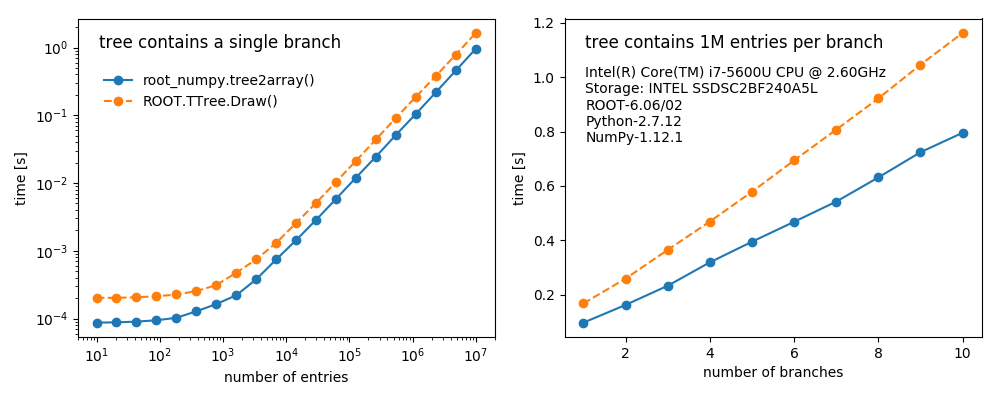
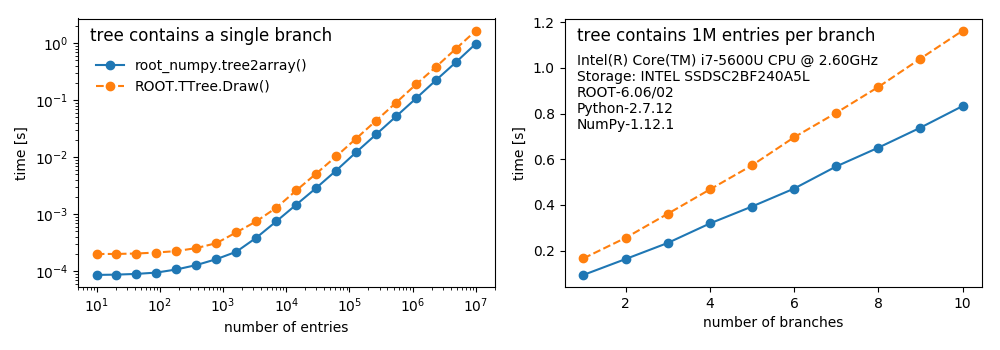
paper updates

diff --git a/benchmarks/bench_tree2array.py b/benchmarks/bench_tree2array.py
@@ -56,16 +56,16 @@ for entries in num_entries:
     print("  {0:10.5f}".format(root_numpy_times[-1]), end="")
     print("  {0:10.5f}".format(root_times[-1]))
 
-fig, (ax1, ax2) = plt.subplots(1, 2, figsize=(10, 4))
+fig, (ax1, ax2) = plt.subplots(1, 2, figsize=(10, 3.5))
 
 ax1.plot(num_entries, root_numpy_times, '-o', label='root_numpy.tree2array()', linewidth=1.5)
 ax1.plot(num_entries, root_times, '--o', label='ROOT.TTree.Draw()', linewidth=1.5)
 ax1.set_xscale("log", nonposx='clip')
 ax1.set_yscale("log", nonposx='clip')
-ax1.legend(loc=(0.05, 0.7), frameon=False, fontsize=10)
+ax1.legend(loc=(0.03, 0.7), frameon=False, fontsize=10)
 ax1.set_ylabel('time [s]')
 ax1.set_xlabel('number of entries')
-ax1.text(0.05, 0.95, 'tree contains a single branch',
+ax1.text(0.03, 0.97, 'tree contains a single branch',
          verticalalignment='top', horizontalalignment='left',
          transform=ax1.transAxes, fontsize=12)
 
@@ -79,12 +79,13 @@ for branches in num_branches:
     tree = make_tree(1000000, branches=branches)
     branchnames = [branch.GetName() for branch in tree.GetListOfBranches()]
     branchname = ':'.join(branchnames)
+    iterations = 5
     root_numpy_times.append(
         min(timeit.Timer('tree2array(tree)',
-                         setup='from root_numpy import tree2array; from __main__ import tree').repeat(3, 3)) / 3)
+                         setup='from root_numpy import tree2array; from __main__ import tree').repeat(3, iterations)) / iterations)
     root_times.append(
         min(timeit.Timer('draw("{0}", "", "goff candle")'.format(branchname),
-                         setup='from __main__ import tree; draw = tree.Draw').repeat(3, 3)) / 3)
+                         setup='from __main__ import tree; draw = tree.Draw').repeat(3, iterations)) / iterations)
     print("  {0:10.5f}".format(root_numpy_times[-1]), end="")
     print("  {0:10.5f}".format(root_times[-1]))
 
@@ -93,10 +94,10 @@ ax2.plot(num_branches, root_times, '--o', label='ROOT.TTree.Draw()', linewidth=1
 #ax2.legend(loc='lower right', frameon=False, fontsize=12)
 ax2.set_ylabel('time [s]')
 ax2.set_xlabel('number of branches')
-ax2.text(0.05, 0.95, 'tree contains 1M entries per branch',
+ax2.text(0.03, 0.97, 'tree contains 1M entries per branch',
          verticalalignment='top', horizontalalignment='left',
          transform=ax2.transAxes, fontsize=12)
-ax2.text(0.05, 0.85, hardware,
+ax2.text(0.03, 0.87, hardware,
          verticalalignment='top', horizontalalignment='left',
          transform=ax2.transAxes, fontsize=10)
 

diff --git a/paper/preamble-latex.tex b/paper/preamble-latex.tex
@@ -6,3 +6,5 @@
 } {
     \endorigfigure
 }
+
+%\setlength{\abovecaptionskip}{-10pt}

diff --git a/paper/paper.md b/paper/paper.md
@@ -28,20 +28,17 @@ bibliography: paper.bib
 
 # Summary
 
-root_numpy is a Python extension module providing an interface between CERN's
-ROOT [@ROOT] software framework and NumPy [@NumPy]. root_numpy enables
-researchers typically operating within the C++ domain of ROOT to analyse data
-in ROOT format within the broad and growing ecosystem of scientific Python
-packages.
+root_numpy is a Python extension module interfacing NumPy [@NumPy] with CERN's
+ROOT [@ROOT] software framework, providing the ability to analyse
+ROOT data within the broad ecosystem of scientific Python packages.
 
-At the core of root_numpy are functions for converting data between a ROOT
-`TTree` and a structured NumPy array. root_numpy can convert `TTree` branches
-(columns) of fundamental types and strings, as well as variable-length and
-fixed-length multidimensional arrays and (nested) `std::vector<>`s. root_numpy
-can also create columns in the output NumPy array from mathematical expressions
-in the same way as ROOT's `TTree::Draw()`. root_numpy's internals are compiled
-C++ and can read and convert data with comparable speed to ROOT as shown in
-Figure \ref{benchmark}.
+At its core are functions for converting between ROOT `TTree`s and structured
+NumPy arrays. root_numpy can convert `TTree` branches (columns) of fundamental
+types and strings, as well as variable-length and fixed-length multidimensional
+arrays and (nested) `std::vector`s. root_numpy can also create columns in the
+output NumPy array from mathematical expressions like ROOT's `TTree::Draw()`.
+root_numpy's internals are compiled C++ and can handle data with comparable
+speed to ROOT as shown in Figure \ref{benchmark}.
 
 root_numpy also provides functions for converting between ROOT histograms and
 NumPy arrays, sampling or evaluating ROOT functions as NumPy arrays, and an
